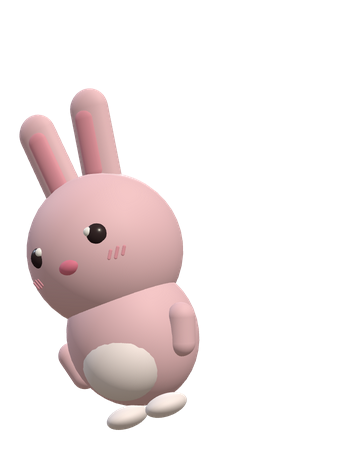
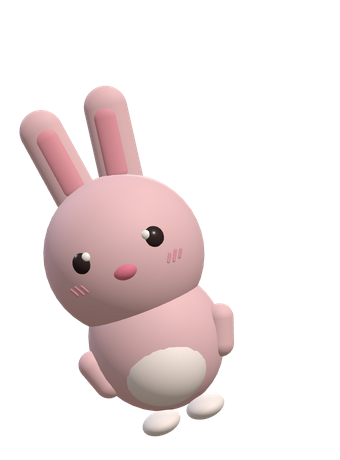
feat(site): let the leaning characters look straight ahead
The five characters peeking in from the page edges used to turn their
heads as well as lean (`yaw` 0.4-0.46). Half the face went behind the
head: one eye and one blush gone, and the expression with it. Leaning
alone already reads as peeking, so the gaze no longer turns.

Facing front makes the body wider on screen, and four of the five hit
the edge of their 340x460 frame. A character that touches the frame is
cut by a straight line in the middle of the page, so `panX` and `lift`
were measured again from a wide calibration render and set so each
character lands where it did before, with 10px or more of margin on
every side.

The narrow tier (1440-1600px) had to give way too. It tucks the
characters deep so only the face shows, and that offset was tuned when
the face sat at the outer edge of the drawing. Now that the face is in
the middle, the old depth cut between the eyes. The offsets are looser
by the width of a third of a face.

Verified: alpha bounding boxes of all five (nothing touches the frame),
screenshots at both the 1440 and 1600 tiers, `npm run check:site`,
`npm test`.

Claude-Session: https://claude.ai/code/session_01YVJBB5NKnaiQf6C8JYZTro

Changed region(s): [[0.0588, 0.1826, 0.7059, 0.9739], [0.1765, 0.5478, 0.2647, 0.6391], [0.4118, 0.487, 0.5, 0.5478]]

diff --git a/src/renderer/site-assets/site-assets.js b/src/renderer/site-assets/site-assets.js
@@ -5,11 +5,11 @@
  *   ?shot=hero        고양이 한 마리, 배경 없음
  *   ?shot=characters  5종 나란히, 배경 없음
  *   ?shot=og          공유 카드 (글 + 5종)
- *   ?shot=peek-panda  판다가 오른쪽으로 기대어 얼굴을 내민다 (랜딩 왼쪽 위)
- *   ?shot=peek-bunny  토끼가 왼쪽으로 기대어 얼굴을 내민다  (랜딩 오른쪽 가운데)
- *   ?shot=peek-dog    강아지가 오른쪽으로 기대어 얼굴을 내민다 (랜딩 왼쪽 아래)
- *   ?shot=peek-duck   오리가 왼쪽으로 기대어 얼굴을 내민다   (랜딩 오른쪽 네 번째)
- *   ?shot=peek-cat    고양이가 오른쪽으로 기대어 얼굴을 내민다 (랜딩 왼쪽 다섯 번째)
+ *   ?shot=peek-panda  판다가 정면을 본 채 오른쪽으로 기운다 (랜딩 왼쪽 위)
+ *   ?shot=peek-bunny  토끼가 정면을 본 채 왼쪽으로 기운다   (랜딩 오른쪽 가운데)
+ *   ?shot=peek-dog    강아지가 정면을 본 채 오른쪽으로 기운다 (랜딩 왼쪽 아래)
+ *   ?shot=peek-duck   오리가 정면을 본 채 왼쪽으로 기운다    (랜딩 오른쪽 네 번째)
+ *   ?shot=peek-cat    고양이가 정면을 본 채 오른쪽으로 기운다 (랜딩 왼쪽 다섯 번째)
  */
 
 import * as THREE from 'three'
@@ -38,27 +38,35 @@ const LAYOUT = {
   og: { specs: CHARACTERS, spacing: 2.3, headroom: 1.24, lift: 0.0, yaw: -0.2 },
 
   /*
-   * 빼꼼 — 모서리 뒤에서 몸을 기울여 얼굴만 비스듬히 내민 자세.
+   * 빼꼼 — 모서리 뒤에서 몸을 기울여 얼굴을 내민 자세.
    *
    * 기울기(roll)가 이 자세의 전부다. 똑바로 선 캐릭터를 가장자리로 자르면 그냥
    * 잘린 그림이지만, 기대는 쪽으로 눕혀 놓으면 벽 뒤에서 내다보는 것이 된다.
    * 그래서 화면 왼쪽에 설 아이는 오른쪽으로, 오른쪽에 설 아이는 왼쪽으로 눕는다.
    * 몸이 잘리는 방향과 기우는 방향이 어긋나면 자세가 무너지니 짝을 바꾸지 말 것.
    *
+   * **얼굴은 기울여도 정면을 본다** (`yaw: 0`). 한때 고개까지 옆으로 돌려
+   * 놓았는데, 그러면 눈 하나와 볼터치 하나가 뒤로 넘어가 표정이 절반만 남는다.
+   * 기울기만으로도 빼꼼해 보이므로 시선까지 돌릴 이유가 없다.
+   *
    * 얼굴만 크게 담고 싶더라도 **캐릭터 전체가 그림 안에 들어와야 한다.** 발이
    * 그림 아래 모서리에 걸리면 랜딩페이지에서 몸통이 평평한 가로선으로 잘려
    * 보인다. 잘리는 곳은 화면 가장자리 하나여야 하고, 그건 세로선이다.
    * 얼굴을 키우는 일은 여기서가 아니라 style.css 에서 크게 걸고 많이 물리는
    * 방식으로 한다.
+   *
+   * 정면을 보면 옆으로 돌렸을 때보다 몸통 폭이 넓다. spanX 1.6 에 판다가 좌우
+   * 10~20px 남기고 겨우 들어가므로, roll 을 더 눕히거나 headroom 을 줄이려면
+   * 먼저 알파 여백부터 재 볼 것.
    */
   'peek-panda': {
     specs: [getCharacter('panda')],
     spacing: 0,
     headroom: 1.04,
-    lift: 0.02,
-    yaw: 0.46,
+    lift: 0.021,
+    yaw: 0,
     roll: -0.34,
-    panX: 0.17,
+    panX: 0.365,
     spanX: 1.6,
   },
   // 토끼는 귀가 길어서 눕히면 더 넓게 잡아야 귀 끝이 살아난다.
@@ -66,10 +74,10 @@ const LAYOUT = {
     specs: [getCharacter('bunny')],
     spacing: 0,
     headroom: 1.02,
-    lift: 0.14,
-    yaw: -0.46,
+    lift: 0.153,
+    yaw: 0,
     roll: 0.36,
-    panX: 0.06,
+    panX: -0.098,
     spanX: 1.6,
   },
   // 강아지는 귀가 늘어져서 기울이면 귀가 먼저 쏠린다. 그 맛으로 쓴다.
@@ -77,10 +85,10 @@ const LAYOUT = {
     specs: [getCharacter('dog')],
     spacing: 0,
     headroom: 1.04,
-    lift: 0.02,
-    yaw: 0.4,
+    lift: 0.023,
+    yaw: 0,
     roll: -0.3,
-    panX: 0.13,
+    panX: 0.251,
     spanX: 1.6,
   },
   // 오리는 귀가 없어서 세로가 짧다. 더 당겨야 얼굴이 다른 넷과 같은 크기로 보인다.
@@ -88,20 +96,20 @@ const LAYOUT = {
     specs: [getCharacter('duck')],
     spacing: 0,
     headroom: 0.94,
-    lift: 0.06,
-    yaw: -0.44,
+    lift: 0.069,
+    yaw: 0,
     roll: 0.34,
-    panX: -0.03,
+    panX: -0.117,
     spanX: 1.6,
   },
   'peek-cat': {
     specs: [getCharacter('cat')],
     spacing: 0,
     headroom: 1.04,
-    lift: 0.02,
-    yaw: 0.46,
+    lift: 0.022,
+    yaw: 0,
     roll: -0.34,
-    panX: 0.17,
+    panX: 0.287,
     spanX: 1.6,
   },
 }[shot]

diff --git a/site/style.css b/site/style.css
@@ -312,6 +312,11 @@ h3 { font-size: 1.02rem; font-weight: 700; letter-spacing: -0.005em; line-height
  * 좁은 화면이라고 캐릭터를 줄이지는 않는다. 크기는 그대로 두고 더 깊이 물려서
  * 얼굴만 내밀게 한다. 줄이면 그냥 작아 보이지만, 물리면 더 빼꼼해 보인다.
  * 맥북 14"(1512px)·13"(1470px)가 이 구간이라 여기서 사라지면 안 된다.
+ *
+ * 다만 **물리는 깊이의 한계는 얼굴이 정한다.** 캐릭터가 정면을 보게 된 뒤로
+ * 얼굴이 그림 한가운데에 있어서, 예전 값 그대로 물리면 두 눈 사이가 잘린다.
+ * 아래 값은 얼굴 가로폭의 3분의 1쯤만 넘어가도록 잡은 것이다. 더 물리고
+ * 싶으면 눈 위치부터 재고 오는 편이 빠르다.
  */
 
 .peekers { display: none; }
@@ -348,11 +353,11 @@ h3 { font-size: 1.02rem; font-weight: 700; letter-spacing: -0.005em; line-height
    * 부리 때문에 그림 안에서 차지하는 폭이 좁다. 화면에서 다섯 얼굴이 같은
    * 크기로 보이는 쪽을 택했다.
    */
-  .peek-panda { top: 120px; left: -135px; width: 240px; background-image: url('/assets/peek-panda.png'); }
-  .peek-bunny { top: 560px; right: -195px; width: 300px; background-image: url('/assets/peek-bunny.png'); }
-  .peek-dog { top: 1020px; left: -132px; width: 240px; background-image: url('/assets/peek-dog.png'); }
-  .peek-duck { top: 1600px; right: -175px; width: 270px; background-image: url('/assets/peek-duck.png'); }
-  .peek-cat { top: 2160px; left: -128px; width: 240px; background-image: url('/assets/peek-cat.png'); }
+  .peek-panda { top: 120px; left: -120px; width: 240px; background-image: url('/assets/peek-panda.png'); }
+  .peek-bunny { top: 560px; right: -181px; width: 300px; background-image: url('/assets/peek-bunny.png'); }
+  .peek-dog { top: 1020px; left: -119px; width: 240px; background-image: url('/assets/peek-dog.png'); }
+  .peek-duck { top: 1600px; right: -171px; width: 270px; background-image: url('/assets/peek-duck.png'); }
+  .peek-cat { top: 2160px; left: -122px; width: 240px; background-image: url('/assets/peek-cat.png'); }
 }
 
 /* 창이 940px 뿐이라 여백이 넓다. 여기서부터는 더 많이 내민다. */
